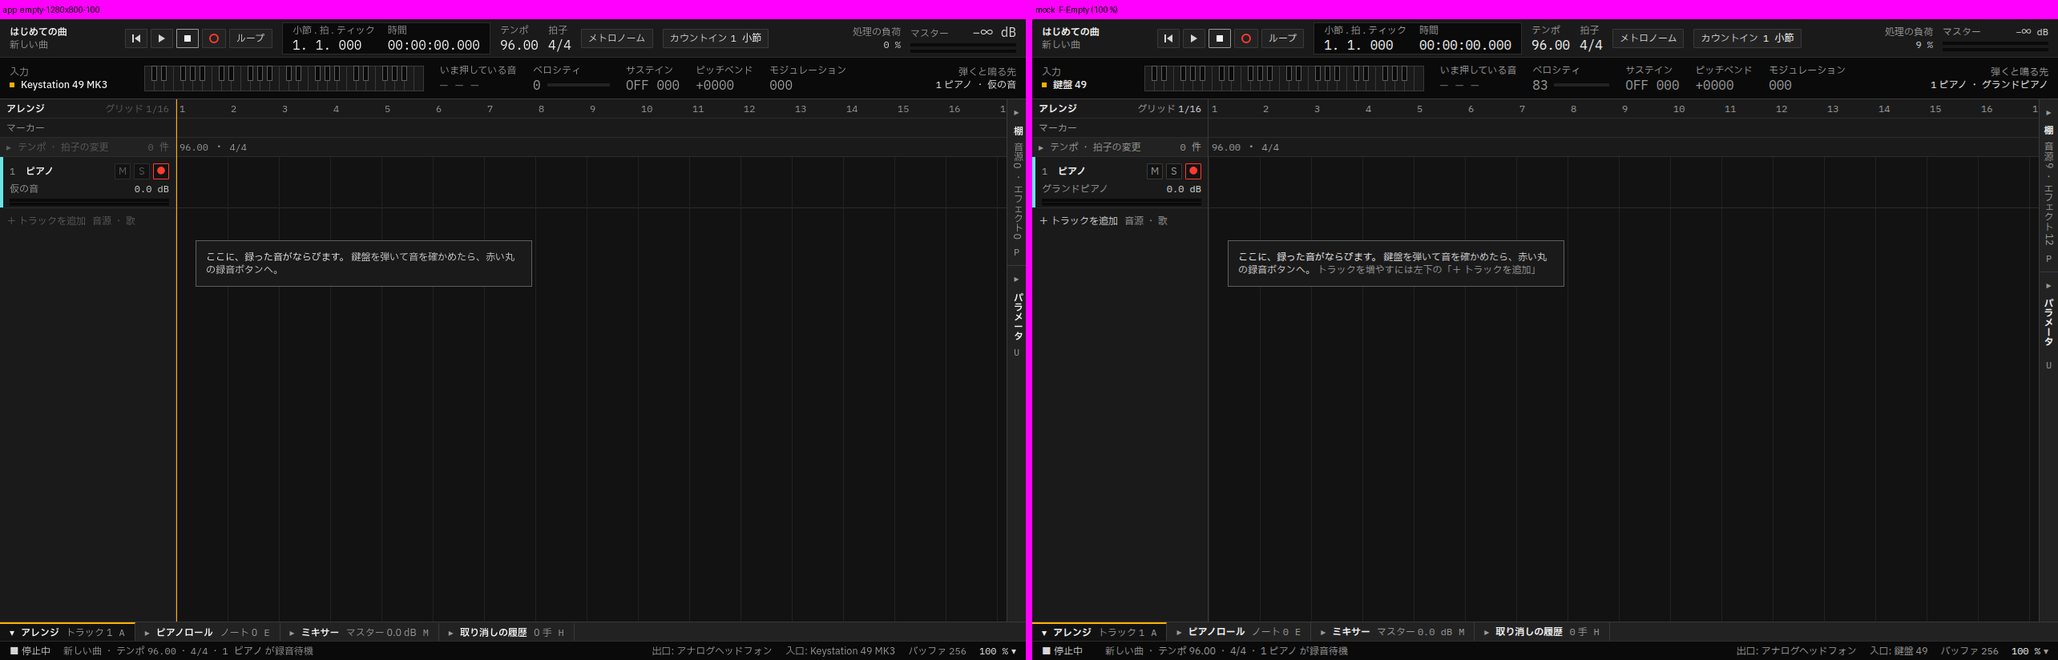
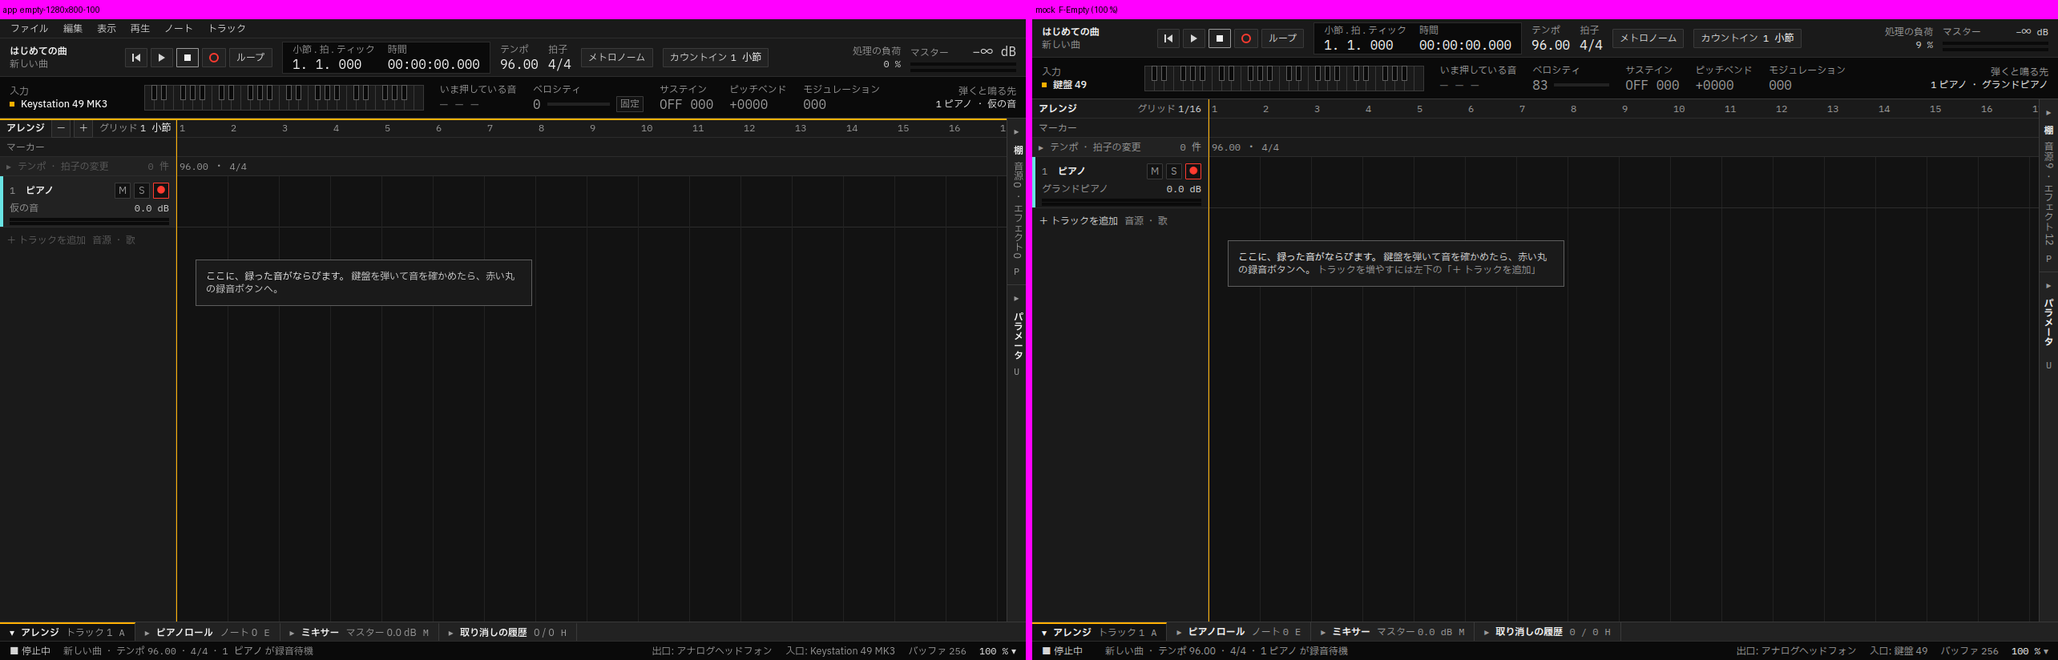
Measurements after the round 3 follow-up: all within the line, one dragged note keeps about 13 KB instead of 245 KB, 10 min recording 340 -> 402 MB; latency.sh can turn on fixed velocity, the page script can set the row height; app screenshots with the menu row
Claude-Session: https://claude.ai/code/session_01SpSJCcXwg9hnkC3F6jSAAp

diff --git a/ui/src/dev/script.ts b/ui/src/dev/script.ts
@@ -3,7 +3,8 @@
 // The input goes in as DOM events on the note area, so the page's own handlers do the work. Nothing here runs
 // unless Rust hands over a script.
 
-export type PartKind = "scroll" | "zoom" | "drag";
+/** rows: count is the row height (ROW_PX_STEPS) to step to before the parts after it. */
+export type PartKind = "scroll" | "zoom" | "drag" | "rows";
 
 export interface ScriptPart {
   kind: PartKind;
@@ -12,7 +13,7 @@ export interface ScriptPart {
 
 export const SCRIPT_REPORT = "ui-script.json";
 const DEFAULT_COUNT = 100;
-const KINDS: Record<string, PartKind> = { "pr-scroll": "scroll", "pr-zoom": "zoom", "pr-drag": "drag" };
+const KINDS: Record<string, PartKind> = { "pr-scroll": "scroll", "pr-zoom": "zoom", "pr-drag": "drag", "pr-rows": "rows" };
 
 /** `pr-scroll:100,pr-zoom,pr-drag:1000`. Null when any part is not understood. */
 export function parseUiScript(text: string): ScriptPart[] | null {
@@ -43,6 +44,8 @@ export interface Target {
   /** Something that changes when a wheel step did anything: the left edge, the zoom. */
   scrollTick(): number;
   zoom(): number;
+  /** The vertical zoom (row px at 100 %); needed only by a rows part. */
+  rowPx?(): number;
   /** Id of the take shown; a drag is answered when it changes. */
   shownTake(): number | null;
   /** The reading the page shows while dragging (null when no drag is going on). */
@@ -189,6 +192,10 @@ export class UiScript {
     for (let i = 0; i < part.count && !this.stopped; i++) {
       const area = this.target.area();
       if (!area) throw new Error("the note area is gone");
+      if (part.kind === "rows") {
+        await this.rows(area, part.count, rec);
+        return;
+      }
       let step: Step;
       if (part.kind === "drag") {
         step = await this.drag(area, i % 2 === 0 ? 1 : -1);
@@ -222,6 +229,20 @@ export class UiScript {
     const inputMs = this.clock.now() - atMs;
     const after = kind === "scroll" ? this.target.scrollTick() : this.target.zoom();
     return { atMs, inputMs, changed: after !== before };
+  }
+
+  private async rows(area: HTMLElement, rowPx: number, rec: PartRecord): Promise<void> {
+    const r = area.getBoundingClientRect();
+    for (let i = 0; this.target.rowPx && this.target.rowPx() !== rowPx; i++) {
+      const before = this.target.rowPx();
+      if (i > 8) throw new Error(`the rows did not reach ${rowPx}`);
+      const atMs = this.clock.now();
+      // Wheel up (negative) makes the rows taller.
+      area.dispatchEvent(wheel(r.left + r.width / 2, r.top + r.height / 2, before < rowPx ? -100 : 100, { ctrl: true, shift: true }));
+      await this.clock.settle();
+      rec.steps.push({ atMs, inputMs: this.clock.now() - atMs, changed: this.target.rowPx() !== before });
+      await this.clock.wait(STEP_GAP_MS);
+    }
   }
 
   private async drag(area: HTMLElement, direction: number): Promise<Step> {

diff --git a/ui/tests/dev.script.test.ts b/ui/tests/dev.script.test.ts
@@ -95,6 +95,25 @@ describe("自動で動かす係", () => {
     expect(s.reports.at(-1)!.parts[0]!.steps.every((st) => st.changed)).toBe(true);
   });
 
+  it("縦の段: Mod Shift ＋ ホイールで、決めた行の高さまで動かしてから次へ", async () => {
+    const steps = [8, 12, 16, 20, 24];
+    let at = 1;
+    const s = setup({ rowPx: () => steps[at]! });
+    s.area.addEventListener("wheel", (e) => {
+      if (e.ctrlKey && e.shiftKey) at = Math.min(4, Math.max(0, at - Math.sign(e.deltaY)));
+    });
+    expect(parseUiScript("pr-rows:24,pr-scroll:1")).toEqual([
+      { kind: "rows", count: 24 },
+      { kind: "scroll", count: 1 },
+    ]);
+    await new UiScript("pr-rows:24", [{ kind: "rows", count: 24 }], s.target, fakeClock(), s.report).run();
+    expect(steps[at]).toBe(24);
+    const wheels = s.events.filter((e) => e.type === "wheel");
+    expect(wheels).toHaveLength(3);
+    expect(wheels.every((e) => e.ctrl && e.shift && e.deltaY < 0)).toBe(true);
+    expect(s.reports.at(-1)!.done).toBe(true);
+  });
+
   it("ドラッグ: 押す → 動かす 4 回 → 離す。行きと帰りをくりかえし、新しいテイクが見えるまで待つ", async () => {
     const s = setup();
     await new UiScript("pr-drag:2", [{ kind: "drag", count: 2 }], s.target, fakeClock(), s.report).run();

diff --git a/ui/src/dev/start.ts b/ui/src/dev/start.ts
@@ -69,6 +69,7 @@ function pianoRoll(): Target {
     },
     scrollTick: () => prView.scrollTick,
     zoom: () => prView.quarterPx,
+    rowPx: () => prView.rowPx,
     shownTake: () => shown.take?.id ?? null,
     reading: () => dragReading.text,
   };

diff --git a/docs/measurements/2026-11-18-round3-followup.md b/docs/measurements/2026-11-18-round3-followup.md
@@ -1,0 +1,195 @@
+# 第 3 回の続きの測定: メニューの行、縦の拡大、ベロシティ固定、ミュート ・ ソロ、分けあう取り消しの履歴（2026-11-18）
+
+第 3 回の続き（区切り0 ・ 1）が入った形で、鍵 → 画面 ・ 鍵 → 音、ベロシティ固定、ノート 1 万個のピアノロールの操作とメモリ、10 分の録音、本物のアプリの絵を取りなおした。くらべる相手は `2026-11-15-round3-final.md`（以下「前」）。
+
+## 条件
+
+- 版: `a766239`（foundation）。アプリのコードは変えていない。変えたのは測る道具だけ（下の「直した道具」）。release、`target/`（`CARGO_TARGET_DIR` なし）。測る前に ui/ と release（`meloet-app`、`meloet-midi`、`vkeys_long_play` のテスト）をビルドし、測るあいだはビルドしていない（`--no-build`）。
+  - a の 11 回のあと、b の前に、自動の係（`ui/src/dev/`）を直して ui/ と `meloet-app` をビルドしなおした。変えたのは `MELOET_UI_SCRIPT` があるときだけ読みこむ所なので、ふだんの道は同じ。a の取りなおし（1920×1080 録音中の 3 回）は、ビルドしなおしたあと。
+- PC: ヤチヨさんの meloet は動いていない（各回の前に `pgrep -u wintermaples -x meloet` で 0。ヤチヨさんの vite は動いていた）。ほかの係のビルドもなし。ヤチヨさんの Chrome の拡張機能のプロセス 1 つが CPU 約 58 % を使っていた（はじめに見た時。止めていない）。Firefox と GNOME も開いたまま。load average（1 分）は、各回の前に a 0.38〜1.15、b 0.89〜2.36（はじめの「横に送る」だけ 2.36。直前の画面の試験とビルドの名残）、c 0.68。条件の記録: `target/measure/round3-followup/conditions.txt`。
+- RTX 5060 Ti（595.99.02）、WebKitGTK 2.52.6（`libwebkit2gtk-4.1-0 2.52.6-0ubuntu0.26.04.1`）、Linux 7.0.0-43。
+- バッファ 256 で動いている（PipeWire の `clock.force-quantum` 256 を読んだだけ。どの回の前も 256）、48000 Hz。出口は出口えらびの 1 つめ（アナログヘッドフォン）。
+- `JSC_logGC` はつけていない。`JSC_useGenerationalGC` も外から決めていない。
+- 合格の線（仕様書 3 章）: 光るまで 2 コマ（33 ms）以内。和音の 2 つめから先は 1 コマおくれてよい。数の上では「Rust → 描いた ＋ 1 コマ」で見つもる（`summarize.py`）。
+- 生の数: `target/measure/round3-followup/`（`latency/<回>/`、`ui/<台本>/`、`long/piano-roll/`。それぞれ `summary.md`、`summary.json`、`raw/`）。
+
+## a. 鍵 → 画面・鍵 → 音（200 ノートの曲）
+
+`tools/measure/latency.sh --no-build --window W×H --state S --pattern P [--piano-roll]`。仮想の鍵盤で 120 鍵、ベロシティ 25、押す長さ 120 ms。曲は `make_song.py` の 200 ノート・16 小節。前と同じ条件。
+
+単位は ms（p50 / p95 / 最大）。「鍵 → 画面」は Rust が受けてから描いたコマ（rAF）まで。間をあけた鍵の線は 2 コマ、すぐあとの鍵（1 コマ以内）の線は 3 コマ。
+
+| 窓・状態・弾きかた | 間をあけた鍵 n | 間をあけた鍵 → 画面 | 2 コマ以内 | すぐあとの鍵 n | すぐあとの鍵 → 画面 | 3 コマ以内 | 鍵 → DAC 平均 / p95 / 最大 |
+|---|---|---|---|---|---|---|---|
+| 1920×1080 ピアノロールなし 止まっている spaced | 120 | 1.34 / 1.35 / 2.38 | 100 % | 0 | — | — | 13.34 / 15.78 / 15.85 |
+| 1920×1080 ピアノロールなし 止まっている mixed | 80 | 0.62 / 12.31 / 15.32 | 100 % | 40 | 4.86 / 15.15 / 15.73 | 100 % | 13.20 / 15.79 / 15.90 |
+| 1920×1080 ピアノロール 止まっている spaced | 120 | 0.21 / 1.20 / 16.20 | 100 % | 0 | — | — | 13.26 / 15.74 / 15.81 |
+| 1920×1080 ピアノロール 止まっている mixed | 92 | 1.22 / 15.35 / 16.28 | 100 % | 28 | 6.68 / 15.29 / 15.97 | 100 % | 13.35 / 15.60 / 15.96 |
+| 1920×1080 ピアノロール 再生中 spaced | 120 | 0.62 / 5.61 / 15.61 | 100 % | 0 | — | — | 13.38 / 15.85 / 15.92 |
+| 1920×1080 ピアノロール 再生中 mixed | 82 | 1.08 / 14.06 / 15.80 | 100 % | 38 | 7.29 / 16.51 / 16.69 | 100 % | 13.44 / 15.82 / 15.95 |
+| 1920×1080 ピアノロール 録音中 spaced | 120 | 1.10 / 1.11 / 3.10 | 100 % | 0 | — | — | 13.42 / 15.87 / 15.94 |
+| 　同じ（取りなおし 2） | 120 | 0.68 / 4.68 / 6.68 | 100 % | 0 | — | — | 13.27 / 15.73 / 15.84 |
+| 　同じ（取りなおし 3） | 120 | 0.87 / 0.88 / 2.87 | 100 % | 0 | — | — | 13.24 / 15.69 / 15.78 |
+| 1920×1080 ピアノロール 録音中 mixed | 81 | 1.22 / 10.60 / 16.50 | 100 % | 39 | 7.53 / 16.92 / 17.82 | 100 % | 13.17 / 15.65 / 15.86 |
+| 　同じ（取りなおし 2） | 88 | 1.27 / 13.38 / 13.96 | 100 % | 32 | 6.57 / 12.78 / 13.03 | 100 % | 13.21 / 15.81 / 15.97 |
+| 1280×800 ピアノロール 録音中 spaced | 120 | 1.17 / 1.17 / 3.16 | 100 % | 0 | — | — | 13.26 / 15.71 / 15.99 |
+| 1280×800 ピアノロール 録音中 mixed | 90 | 0.96 / 10.92 / 14.93 | 100 % | 30 | 5.23 / 12.39 / 13.86 | 100 % | 13.40 / 15.87 / 15.95 |
+
+- **どの回も線を守った**（2 コマ以内 100 %、すぐあとの鍵も 3 コマ以内 100 %。いちばんおそい鍵でも 17.82 ms ＋ 1 コマ）。鍵 → 音（DAC）は p95 15.60〜15.87 ms で、前（15.65〜15.92）と同じ。
+- 1920×1080 ピアノロール 止まっている spaced の最大 16.20 ms は 120 鍵のうち 1 鍵だけ（次の刻みまで待った）。前の load 2.35 の回と同じ形。
+
+### くらべ（Rust → 描いた p95、ms）
+
+| | 前 | 今回 |
+|---|---|---|
+| 1920×1080 なし 止まっている spaced | 1.24 | 1.35 |
+| 1920×1080 なし 止まっている mixed（間をあけた / すぐあと） | 13.61 / 14.25 | 12.31 / 15.15 |
+| 1920×1080 ピアノロール 止まっている spaced | 1.12（取りなおし） | 1.20 |
+| 1920×1080 ピアノロール 止まっている mixed | 10.64 / 15.06 | 15.35 / 15.29 |
+| 1920×1080 再生中 spaced | 1.10 | **5.61** |
+| 1920×1080 再生中 mixed | 13.06 / 14.91 | 14.06 / 16.51 |
+| 1920×1080 録音中 spaced | 7.31 | 1.11 ・ 4.68 ・ 0.88 |
+| 1920×1080 録音中 mixed | 12.49 / 10.69 | 10.60 / 16.92 ・ 13.38 / 12.78 |
+| 1280×800 録音中 spaced | 1.36 | 1.17 |
+| 1280×800 録音中 mixed | 8.02 / 16.55 | 10.92 / 12.39 |
+| 鍵 → DAC p95 | 15.65〜15.92 | 15.60〜15.87 |
+
+- 再生中 spaced の p95 5.61 ms は、Rust → JS がすでに p95 4.61 ms（描く所ではなく、JS が受けとるまで待った）。前の録音中 spaced の 7.31 ms と同じ形で、回ごとにちがう（今回の録音中 spaced は 1.11 ・ 4.68 ・ 0.88）。線（33 ms）からは遠い。
+
+### 1920×1080 録音中だけ、鍵のコマが重くなった
+
+`frame-profile.json` のコマ（ページを読んでから 8 秒より後）で、主スレッドのふさがり（busy。そのコマの rAF ・ Svelte ・ スタイル ・ レイアウト ・ 描画）を前とならべた。「鍵のコマ」は `inputKeys` を描いたコマ（鍵の on か off が来たコマ）。
+
+| 回 | 鍵のコマ busy p50 / p95 / 最大 | ほかのコマ p50 / p95 | 25 ms をこえたコマ（全体） |
+|---|---|---|---|
+| 前 1920 録音中 spaced | 7 / 19 / 28 | 3 / 12 | 3 |
+| 今回 1920 録音中 spaced（3 回） | 8 / 27 / 32、7 / 26 / 36、9 / 28 / 34 | 3 / 13（3 回とも） | 20 ・ 13 ・ 32 |
+| 前 1920 録音中 mixed | 11 / 24 / 33 | 2 / 10 | 7 |
+| 今回 1920 録音中 mixed（2 回） | 11 / 28 / 35、10 / 27 / 34 | 2 / 10、3 / 10 | 26 ・ 17 |
+| 前 1920 再生中 spaced | 7 / 16 / 20 | 3 / 6 | 1 |
+| 今回 1920 再生中 spaced | 6 / 16 / 21 | 3 / 7 | 0 |
+| 前 1920 止まっている spaced | 4 / 7 / 16 | 0 / 2 | 0 |
+| 今回 1920 止まっている spaced | 5 / 8 / 17 | 0 / 2 | 0 |
+| 前 1280 録音中 spaced | 4 / 15 / 21 | 1 / 7 | 0 |
+| 今回 1280 録音中 spaced | 5 / 15 / 18 | 1 / 7 | 0 |
+
+- 取りなおしても同じ形なので、たまたまではない。重くなったのは **1920×1080 の録音中の鍵のコマだけ**（spaced で p95 19 → 26〜28 ms、mixed で 24 → 27〜28 ms）。止まっている ・ 再生中 ・ 1280×800 の録音中は前と同じ。
+- 重いコマの中わけは、どれも `callbacksMs` 0、`measureMs` 0〜1、`paintMs` 0、`glMs` 0〜1 で、測っている所（rAF の中の仕事、WebGL）ではない。描いた区画は `inputKeys`・`pianoRollKeys`・メーター（と `recordingClip`）で、前と同じ。のこりは Svelte の更新か、HTML のスタイル ・ レイアウト ・ 描画。
+- 見立て（確かさ C）: 録音中は鍵が来るたびに録っているテイクがのび、HTML の側（ピアノロールのノートの一覧の行、帯札や右の欄の数、トラックの行など）が変わる。1920×1080 ではノートの一覧と右の欄（この回で中身がふえた「選んだノート」「ベロシティをまとめて変える」など）がひらいているので、そのスタイルとレイアウトが重くなったと読む。どの部品かは分けていない（WebKit の中の時間を分ける手だてがない）。
+- 線への影響: 鍵 → 画面は 3 回とも線を守った。重いコマの次に来た鍵が、そのぶん待つ（Rust → JS の p95 が 0.11〜10.6 ms で回ごとにゆれる）。2 コマの線までは、まだ 5 ms 以上ある。
+
+## a2. ベロシティ固定がオンのとき
+
+`latency.sh --no-build --window 1920x1080 --state stopped --pattern spaced --piano-roll --velocity-fixed 40`（下の「直した道具」の口。出口えらびの 200 ms あとに `setVelocityFixed { on: true, value: 40 }` を送る）。鍵はベロシティ 25 で送る。
+
+| | 間をあけた鍵 → 画面 | 2 コマ以内 | Rust → コールバック 平均 / p95 | 鍵 → DAC 平均 / p95 / 最大 |
+|---|---|---|---|---|
+| 固定なし（a の同じ条件） | 0.21 / 1.20 / 16.20 | 100 % | — / 5.08 | 13.26 / 15.74 / 15.81 |
+| 固定 40 | 0.78 / 1.78 / 3.77 | 100 % | — / 5.03 | 13.21 / 15.69 / 15.97 |
+
+- **差はない**（鍵 → DAC の p95 15.74 と 15.69）。
+- 本当に置きかわっていたかは、別に絵で確かめた: 同じ口で、ベロシティ 25 の鍵を押したまま撮ると、オンでは入力計が「40 ・ 固定（光る）」、オフでは「25」。設定のファイル（測る用の場所）には `"velocity_fixed": true, "fixed_velocity": 40` が書かれた。
+
+## b. ノート 1 万個のクリップ: 横に送る・拡大・ドラッグ・縦の拡大の段
+
+`tools/measure/ui-script.sh --no-build --song song-10000.meloet --script <台本>`。曲は `make_song.py --notes 10000 --bars 100 --cc 32`。1920×1080。ms、p50 / p95 / 最大。
+
+| 台本 | 回 | 段（動いた） | 仕事 | ふさがり | 入力 | コマの間 | 33 ms をこえたコマの間 | 答え |
+|---|---|---|---|---|---|---|---|---|
+| 横に送る（`pr-scroll:100`） | 前 | 100（100） | 1 / 1 / 2 | 10 / 12 / 14 | 1 / 1 / 1 | 13 / 17 / 18 | 0 | — |
+| | 今回 | 100（100） | 1 / 2 / 2 | 11 / 12 / 14 | 0 / 1 / 1 | 13 / 17 / 18 | 0 | — |
+| 拡大（`pr-zoom:100`） | 前 | 100（100） | 1 / 1 / 1 | 9 / 10 / 12 | 0 / 1 / 2 | 13 / 17 / 18 | 0 | — |
+| | 今回 | 100（100） | 0 / 1 / 3 | 11 / 13 / 13 | 1 / 1 / 2 | 13 / 16 / 18 | 0 | — |
+| ドラッグ 100 回（`pr-drag:100`） | 前 | 100（100） | 1 / 2 / 3 | 12 / 33 / 37 | 0 / 1 / **69** | 16 / 17 / 23 | 0 | 30 / 36 / 40 |
+| | 今回 | 100（100） | 0 / 2 / 4 | 3 / 32 / 41 | 0 / 1 / 6 | 16 / 18 / 26 | 0 | 33 / 40 / 44 |
+| ドラッグ 1000 回（`pr-drag:1000`） | 前 | 1000（1000） | 1 / 2 / 4 | 13 / 33 / 42 | 0 / 1 / 1 | 16 / 19 / 25 | 0 | 32 / 36 / 40 |
+| | 今回 | 1000（1000） | 0 / 2 / 4 | 2 / 31 / 40 | 0 / 1 / 2 | 16 / 18 / 28 | 0 | 33 / 36 / 44 |
+
+- 横に送る・拡大・ドラッグは、前とほぼ同じ。33 ms をこえたコマの間は 0。前のドラッグ 100 回の「1 回目の入力 69 ms」は出なかった（最大 6 ms）。
+- ドラッグの答え（離してから新しいテイクが見えるまで）は p95 36〜40 ms、最大 44 ms で、前（最大 40〜41）より 3〜4 ms 長い。ふさがりの最大は同じくらい（40〜41）。
+
+縦の拡大の段（`pr-rows:8,…` ・ `pr-rows:24,…`。段は 8 ・ 12（ふだん）・ 16 ・ 20 ・ 24）:
+
+| 行の高さ | 部分 | ふさがり | コマの間 | 33 ms をこえたコマの間 | 答え | いちばん多い四角 |
+|---|---|---|---|---|---|---|
+| 12（ふだん、上の表） | 横に送る | 11 / 12 / 14 | 13 / 17 / 18 | 0 | — | 12,739（ドラッグ） |
+| 8 | 横に送る | 11 / 13 / 15 | 13 / 16 / **34** | 1 | — | 12,800 |
+| | 拡大 | 11 / 13 / 14 | 14 / 17 / 18 | 0 | — | 7,752 |
+| | ドラッグ 100 | 2 / 31 / 44 | 16 / 18 / 27 | 0 | 32 / 40 / 46 | 7,754 |
+| 24 | 横に送る | 11 / 13 / 14 | 13 / 16 / 18 | 0 | — | 10,912 |
+| | 拡大 | 10 / 13 / 15 | 13 / 16 / 18 | 0 | — | 6,530 |
+| | ドラッグ 100 | 10 / 33 / 40 | 16 / 18 / 24 | 0 | 33 / 38 / 40 | 6,532 |
+
+- 段を変えても、コマの時間はほとんど変わらない（見えるノートの数は 8 で多く、24 で少ないが、四角の数は 6,500〜12,800 で、1 コマ 1〜2 ms の WebGL に収まる）。段 8 の横送りで 1 回だけ 34 ms のコマの間があった（100 段のうち 1）。
+- 段を変える 1 回のふさがりは 7〜14 ms、入力 1 ms。
+
+## c. ドラッグ 1000 回のメモリ（1 万ノート）
+
+`rss_watch.py` が 1 秒ごとに読んだ物のうち、その段の時刻の直前の物（MB）。
+
+| ドラッグ | meloet 本体（前） | meloet 本体（今回） | WebKitWebProcess（前） | WebKitWebProcess（今回） |
+|---|---|---|---|---|
+| 0（測りはじめ） | 225〜228 | 223.9 | 370〜387 | 380.6 |
+| 100 | 250.0 | 226.2 | 398.3 | 411.5 |
+| 200 | 274.3 | 227.6 | 399.4 | 405.8 |
+| 300 | 298.5 | 229.2 | 400.5 | 407.5 |
+| 400 | 322.4 | 230.9 | 401.5 | 407.6 |
+| 500 | 346.2 | 231.6 | 405.2 | 414.2 |
+| 600 | 370.0 | 232.9 | 406.1 | 410.8 |
+| 700 | 394.3 | 234.0 | 403.5 | 409.0 |
+| 800 | 419.3 | 236.3 | 406.5 | 417.0 |
+| 900 | 442.5 | 236.6 | 406.3 | 417.4 |
+| 1000 | 470.7 | 237.7 | 407.0 | 422.4 |
+
+- **meloet 本体は 1 回あたり約 13 KB に減った**（計算: (237.7 − 226.2) MB ÷ 900 回 ≒ 0.0128 MB。前は 0.245 MB）。19 分の 1。取り消しの履歴のテストの数（1 手 8.3 KB、`crates/meloet-model/tests/note_memory.rs`）より少し大きいのは、RSS には allocator のすきまや画面に送った差分のあとも入るため（確かさ C）。1000 回で本体は 224 → 238 MB。
+- WebKitWebProcess は 406〜422 MB（いちばん大きい 426.4、終わり 403.8）。前（398〜407 MB で平ら）より 10 MB ほど高く、100 → 1000 回で 411 → 422 MB と少し上がった。ふえつづけるかは、1000 回では言えない（前の 10 分の録音のように GC のたびに上下する幅の中）。
+
+## d. 10 分録りつづける（1920×1080、ピアノロールをひらいたまま）
+
+`tools/measure/long-record.sh --no-build --piano-roll`。鍵は前と同じ並び（600 秒で 2106 音、ペダル 110 回、ベンド 494 回）。始めの load average 0.68。
+
+| | 前（ひらいたまま） | 今回（ひらいたまま） |
+|---|---|---|
+| テイクのノートの数（帯の「ノート」、`after.png`） | 2106 | 2106 |
+| ERR（xrun）: meloet のストリーム | 0 | 0 |
+| ERR: アナログの出口 | 3 秒目に 1（録音の前、ストリームを開いたとき）、そのあと 0 | 1 秒目に 1（同じ）、そのあと 0 |
+| GC の助手が動いた秒 | 346 | 366 |
+| xrun と GC が 1 秒以内に重なった | なし | なし |
+| meloet 本体の RSS | 58 → 225〜230 → 226 | 58 → 223（最大 227）→ 223 |
+| WebKitWebProcess の RSS（はじめ → いちばん大きい → 終わり） | 348 → 418 → 410 | 340 → **409** → 402 |
+| 再生して鳴ったか（20 秒の RMS） | -40〜-50 dBFS | -40〜-50 dBFS |
+
+WebKitWebProcess の RSS（MB、60 秒ごと）:
+
+| 秒 | 60 | 120 | 180 | 240 | 300 | 360 | 420 | 480 | 540 | 600 |
+|---|---|---|---|---|---|---|---|---|---|---|
+| 今回 | 372 | 378 | 390 | 392 | 396 | 397 | 398 | 396 | 404 | 402 |
+| 前 | 377 | 384 | 397 | 403 | 402 | 403 | 412 | 406 | 416 | 410 |
+
+- **変わっていない**（どの秒も前より 0〜14 MB 低いくらい）。240 秒からあとは 6 分で 10 MB（計算: 402 − 392）。600 MB の線の内側。
+- 録音中の xrun 0、2106 音が全部テイクに入り、再生して鳴った。
+
+## e. 本物のアプリの絵
+
+`python3 -I tools/design/shoot_app.py --no-build --compare-small empty pianoRoll pianoRollSong main history`（1280×800 と 1920×1080、100 % と 150 %）。出口: `docs/screenshots/app/<状態>-<w>x<h>-<拡大率>.png`、100 % のくらべは `docs/screenshots/compare/`。
+
+- どの絵も、いちばん上にメニューの行（ファイル ・ 編集 ・ 表示 ・ 再生 ・ ノート ・ トラック）が出ている。150 % でも 1 行に収まる。
+- 帯の高さははみ出していない（1280×800 150 % のピアノロールでも、帯札の行と状態行まで見える）。
+- `--compare-small` は 150 % のくらべの絵を消すので、前からあった 150 % のくらべの絵は git から戻した（中身は前の回の物のまま）。
+
+## わかった事・わからなかった事
+
+- わかった事（確かさ A: この PC で測った数）:
+  - 鍵 → 画面は、どの窓・状態・弾きかたでも線を守った。鍵 → 音は変わらない。ベロシティ固定をオンにしても鍵 → 音は変わらない。
+  - 取り消しの履歴を分けあう形で、ノート 1 万個のドラッグ 1 回の本体のメモリは 245 KB → 約 13 KB。
+  - 10 分の録音の WebKitWebProcess は前と同じ形（402 MB で終わる）。
+  - 縦の拡大の段（8 ・ 24）でも、1 万ノートの送る・拡大・ドラッグのコマの時間はふだんの段と同じ。
+- 悪くなった所:
+  - 1920×1080 録音中の、鍵のコマの主スレッドのふさがり（p95 19 → 26〜28 ms、25 ms をこえるコマ 3〜7 → 13〜32）。線は守った。WebGL と rAF の外（Svelte か HTML のスタイル ・ レイアウト）。どの部品かは、わからない（見立ては a の終わり）。
+  - ドラッグの答えの最大が 40 → 44〜46 ms（3〜4 ms）。理由は分けていない。
+- 見ていない事: 1 万ノートの曲で録音中（前の b）、ピアノロールなしの 10 分、1280×800 の 10 分、本物の鍵盤。
+
+## 直した道具
+
+- `tools/measure/latency.sh`: `--velocity-fixed V` を足した（出口えらびの 200 ms あとに `setVelocityFixed { on: true, value: V }` を送る）。ベロシティ固定をオンにして測る口がなかったため。
+- `ui/src/dev/script.ts` ・ `start.ts`: 台本に `pr-rows:N` を足した（Mod Shift ＋ ホイールで、行の高さが N になるまで縦の段を動かしてから次の部分へ）。縦の段は画面だけの状態で、外から決める口がなかったため。試験 1 つ（`ui/tests/dev.script.test.ts`）。
